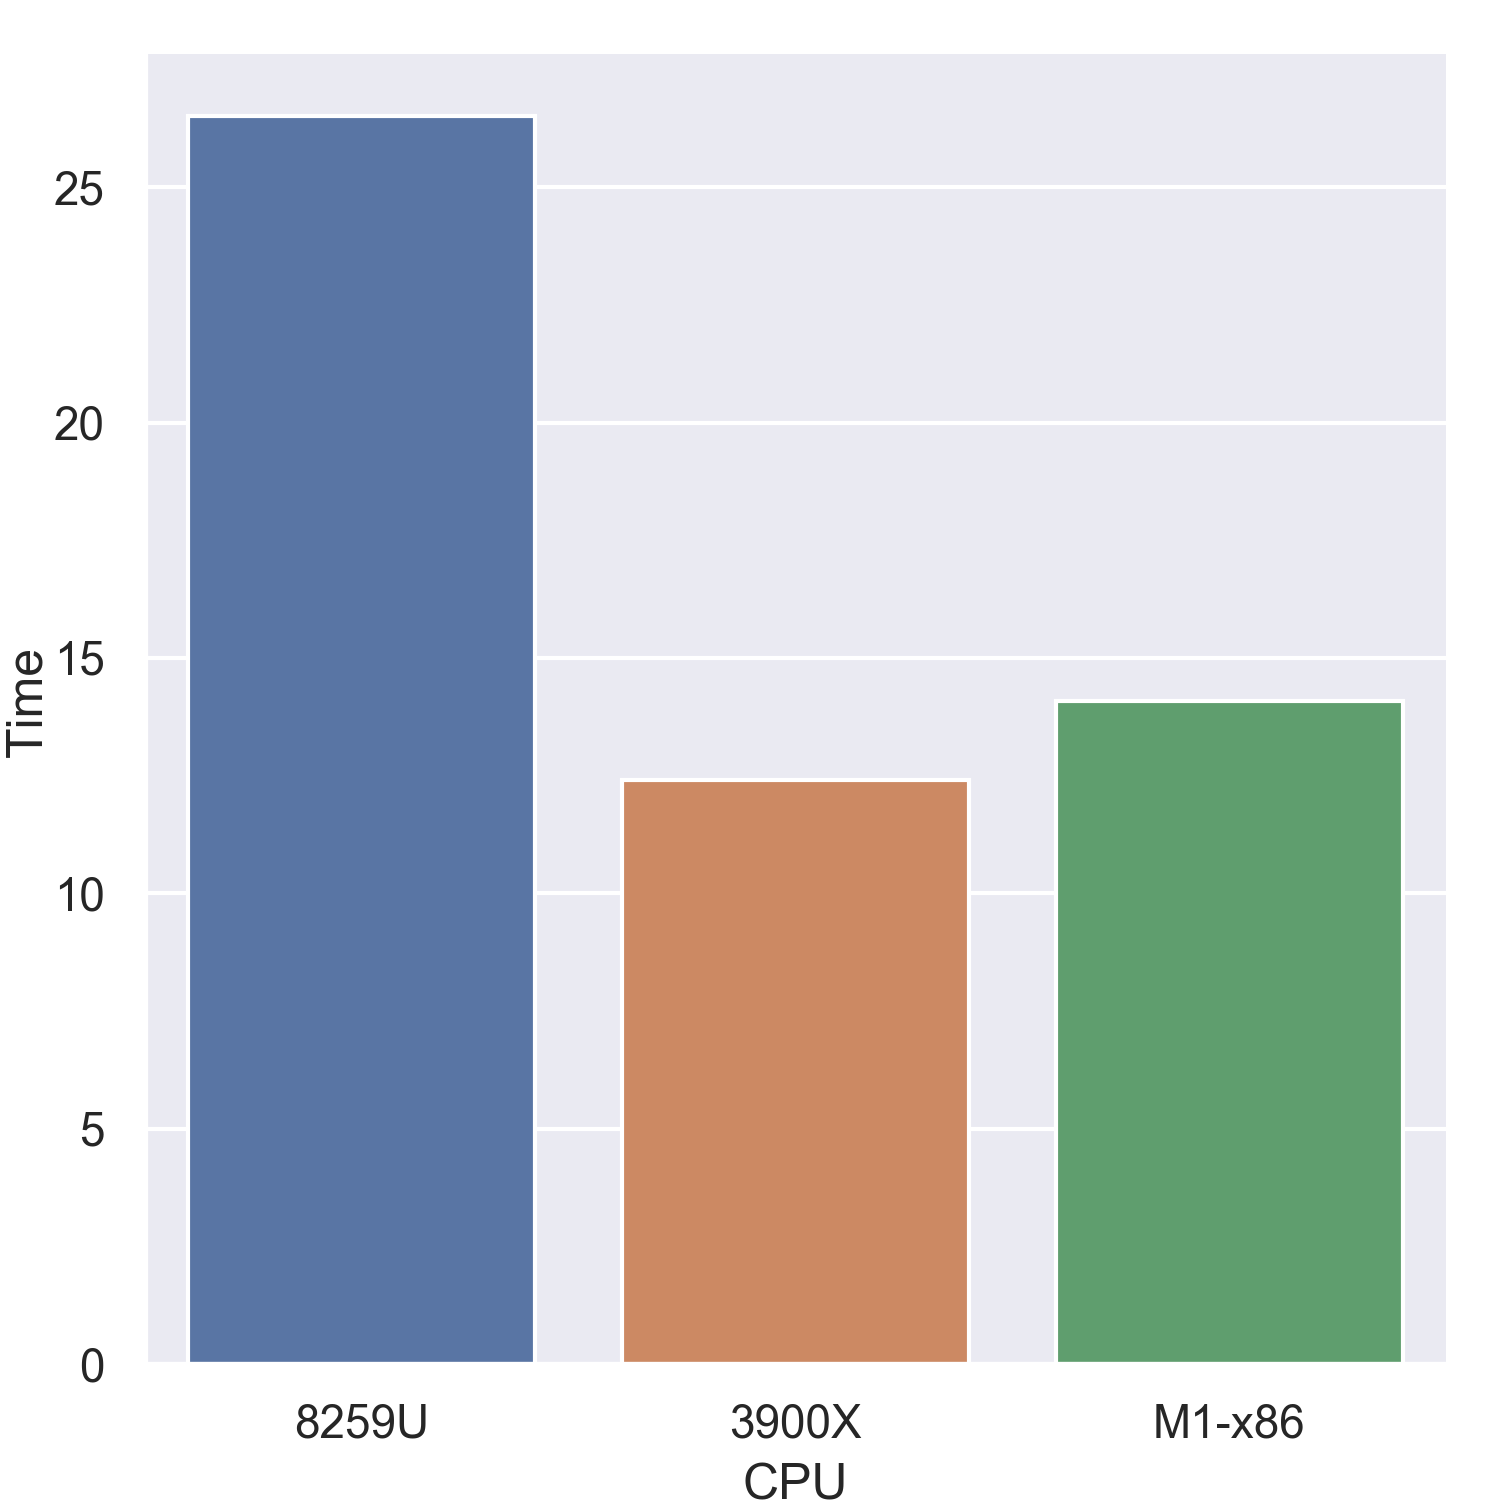
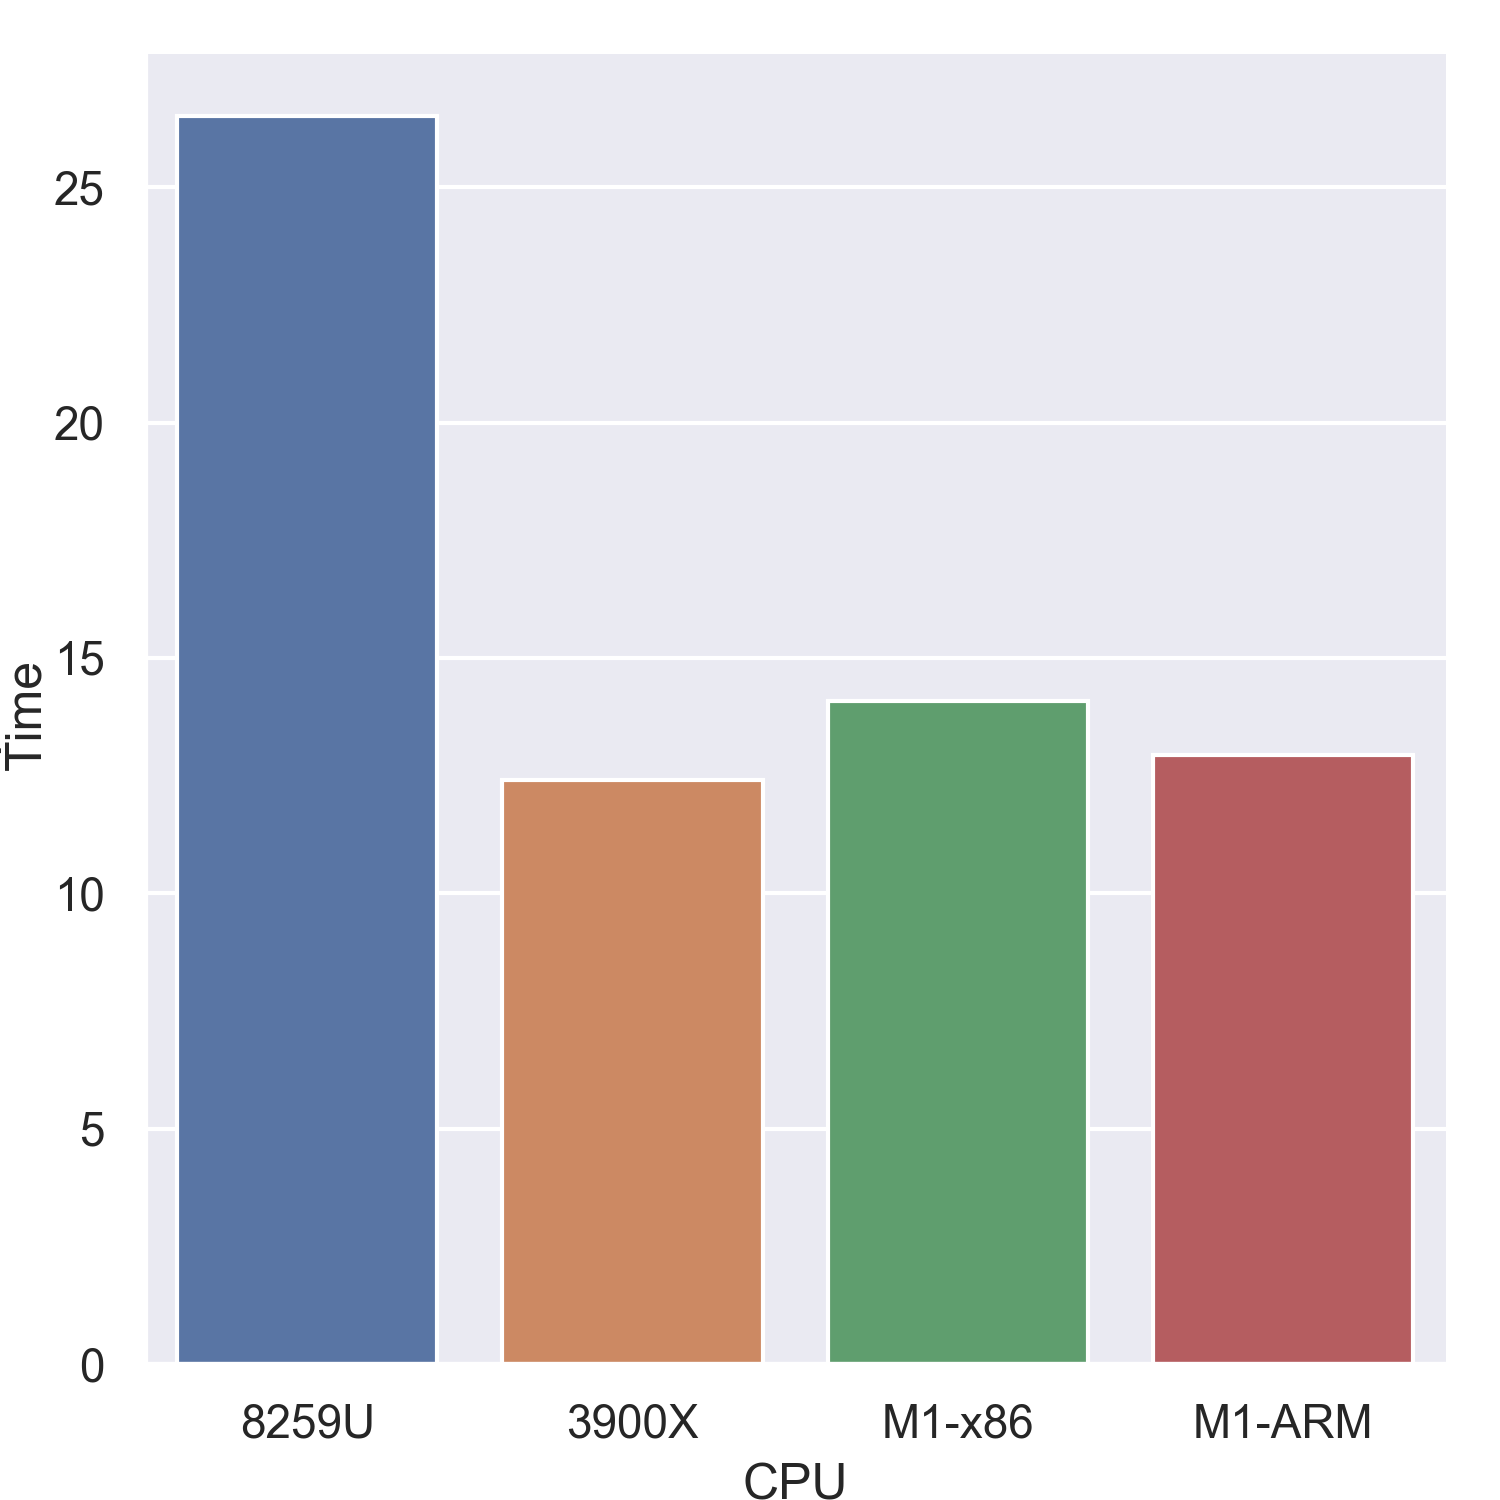
Native numpy

diff --git a/nibabel_graph.py b/nibabel_graph.py
@@ -11,8 +11,8 @@ import matplotlib.pyplot as plt
 #MacBook i5-8259U
 #Ubuntu i7-8700K
 #Ubuntu 3900X
-df = pd.DataFrame({'CPU': ['8259U','3900X','M1-x86'],
-					'Time': [26.5, 12.418, 14.08]})
+df = pd.DataFrame({'CPU': ['8259U','3900X','M1-x86', 'M1-ARM'],
+					'Time': [26.5, 12.418, 14.08, 12.934]})
 sns.set()
 ax = sns.catplot(x="CPU", y="Time", kind="bar", data=df)
 plt.savefig('nibabel.png', dpi=300)

diff --git a/README.md b/README.md
@@ -39,10 +39,10 @@ Initial reviews have suggested [Apple's M1 CPU has outstanding performance](http
 
 Four computers were tested:
 
- - MacBook Pro (2018) with Intel [i5-8259u](https://ark.intel.com/content/www/us/en/ark/products/135935/intel-core-i5-8259u-processor-6m-cache-up-to-3-80-ghz.html) (28w) four-core, eight-thread, integrated GPU.
- - Ubuntu 18.04 Intel [i7-8700k](https://ark.intel.com/content/www/us/en/ark/products/126684/intel-core-i7-8700k-processor-12m-cache-up-to-4-70-ghz.html) (95w) six-core, twelve-thread with NVidia GTX [1080 Ti](https://www.geforce.com/hardware/desktop-gpus/geforce-gtx-1080-ti/specifications) (250w) GPU.
- - Ubuntu 20.04 AMD [Ryzen 9 3900X](https://www.amd.com/en/products/cpu/amd-ryzen-9-3900x) (105w) twelve-core, twenty-four-thread  with NVidia GTX [1080 Ti](https://www.geforce.com/hardware/desktop-gpus/geforce-gtx-1080-ti/specifications) (250w) GPU. Tests were run on a RAM disk to maximize memory performance.
- - MacBook Air (2020) with Apple Silicon [M1](https://en.wikipedia.org/wiki/Apple_M1) (~15w) with four fast cores plus four efficiency cores and integrated GPU (8 Gb RAM, 256 Gb SSD, 7 GPUs). Note this configuration does not have active cooling, so performance is thermally constrained (for example, the [Mac mini M1](https://appleinsider.com/articles/20/11/24/apple-silicon-m1-mac-mini-review---speed-today-and-a-promise-of-more-later) is faster for sustained workloads).
+ - MacBook Pro (2018) with Intel [i5-8259u](https://ark.intel.com/content/www/us/en/ark/products/135935/intel-core-i5-8259u-processor-6m-cache-up-to-3-80-ghz.html) (28w) four-core, eight-thread, maximum bandwidth 37.5 GB/s, integrated GPU.
+ - Ubuntu 18.04 Intel [i7-8700k](https://ark.intel.com/content/www/us/en/ark/products/126684/intel-core-i7-8700k-processor-12m-cache-up-to-4-70-ghz.html) (95w) six-core, twelve-thread, maximum bandwidth 41.6 GB/s, with NVidia GTX [1080 Ti](https://www.geforce.com/hardware/desktop-gpus/geforce-gtx-1080-ti/specifications) (250w) GPU.
+ - Ubuntu 20.04 AMD [Ryzen 9 3900X](https://www.amd.com/en/products/cpu/amd-ryzen-9-3900x) (105w) twelve-core, twenty-four-thread, maximum bandwidth 47.68 GB/s,  with NVidia GTX [1080 Ti](https://www.geforce.com/hardware/desktop-gpus/geforce-gtx-1080-ti/specifications) (250w) GPU. Tests were run on a RAM disk to maximize memory performance.
+ - MacBook Air (2020) with Apple Silicon [M1](https://en.wikipedia.org/wiki/Apple_M1) (~15w) with four fast cores plus four efficiency cores, maximum bandwidth 68.25GB/s, and integrated GPU (8 Gb RAM, 256 Gb SSD, 7 GPUs). Note this configuration does not have active cooling, so performance is thermally constrained (for example, the [Mac mini M1](https://appleinsider.com/articles/20/11/24/apple-silicon-m1-mac-mini-review---speed-today-and-a-promise-of-more-later) is faster for sustained workloads).
 
 ## AFNI
 
@@ -92,7 +92,9 @@ The second test examines the GPU compute performance, looking at generation of t
 
 [NiBabel](https://nipy.org/nibabel/) is a collection of neuroimaging related Python scripts and utilities. It provides [benchmarks](https://nipy.org/nibabel/reference/nibabel.benchmarks.html) for performance and regression testing. While both Python 2.7 and 3 are provided with M1 computers, core Python libraries like numpy and scipy are not yet available as natively compiled code. For these tests, [miniconda](https://docs.conda.io/en/latest/miniconda.html) was installed, and the miniconda `pip` program was used to install x86-64 libraries (numpy, nibabel, pandas, seaborn). Rosetta2 seamlessly translated the x86-64 code the first time the libraries were launched. While native performance will surely be better, here we test the available translations.
 
-The graph shows the geometric mean for the benchmarks with lower values indicating faster performance.
+An experimental [Python version 3.9.1rc1 that natively supports the M1](https://github.com/conda-forge/miniforge#download) including native numpy (`conda install numpy`) has been released. Note that many Python libraries do not yet support this hardware, so in practice you will have to disable this version for many tasks (`conda deactivate`). This native library performed faster than the translated library in all but one test (the finite_range test is reliably slower).
+
+The graph shows the geometric mean for the benchmarks with lower values indicating faster performance. 
  
 ![nibabel](nibabel.png)
 

diff --git a/fortran/README.md b/fortran/README.md
@@ -4,7 +4,7 @@ Fortran plays a pivotal role in science. Open source [scientific tools](https://
 
 Unfortunately, the open source Fortran compilers do not yet support the ARM-based architecture used by Apple's M1 CPUs. Fortunately, Iain Sandoe has been working on porting both gcc and gFortran to this architecture. François-Xavier Coudert has created [an experimental release for the M1](https://github.com/fxcoudert/gfortran-for-macOS/releases). Here we assess the performance of this nascent tool.
 
-Here we test a [couple of popular benchmarks](https://benchmarksgame-team.pages.debian.net/benchmarksgame/fastest/fortran.html). These old benchmarks execute very rapidly, and are probably not a good measure of compute performance. I also include [a simple benchmark I wrote (f400) simulating neuroimaging data](https://github.com/fxcoudert/gfortran-for-macOS/issues/13) (which is probably limited more by memory bandwidth than computation). Due to these factors, I would take these results with a grain of salt. However, the fact that each of these runs to completion suggests that scientific tools which rely on Fortran may soon be available on this promising architecture.
+Here we test a [couple of popular benchmarks](https://benchmarksgame-team.pages.debian.net/benchmarksgame/fastest/fortran.html). These old benchmarks execute very rapidly, and are probably not a good measure of compute performance. I also include [a simple benchmark I wrote (f400) simulating neuroimaging data](https://github.com/fxcoudert/gfortran-for-macOS/issues/13) (which is probably limited more by memory bandwidth than computation). Finally, I include a [2D filtering](https://github.com/sebastianbeyer/fasticonv) benchmark. For this benchmark, I take report the total runtime, which means the results are dominated by the slow `naive` versus the `fast` implementation. It is worth noting that the `naive` implementation performed pporly on the M1 relative to the Intel and AMD CPUs, but the reverse was true for the `fast` method. Therefore, the total time reported suggests the M1 does poorly in this test, but the reverse would be true if the geometric means of the sub-tests was used. Due to these factors, I would take these results with a grain of salt. However, the fact that each of these runs to completion suggests that scientific tools which rely on Fortran may soon be available on this promising architecture.
 
 
 ## Installing dependencies
@@ -46,8 +46,11 @@ gfortran -O3 -fopenmp -o fspectral-norm spectral-norm.f90; time ./fspectral-norm
 gfortran -O3 -o fpidigits pidigits.f90 -lgmp; time ./fpidigits 10000
 gfortran -O3 -o freverse reverse.f90; time ./freverse 0 < revcomp-input100000000.txt
 gfortran -O3 -fopenmp -o fspectral-norm spectral-norm.f90; time ./fspectral-norm 5500
-gfortran -O3 -o f400 fortran400.f95; ./f400
-gfortran -O3 -o f400 fortran400.f95; ./f400
+gfortran -O3 -o f400 fortran400.f95; time ./f400
+gfortran -O3 -o f400 fortran400.f95; time ./f400
+gfortran -O3 -c -o fortfilt.o fortfilt.f90
+gfortran -O3 -o performancetest fortfilt.o performancetest.f90
+time ./benchmark.sh
 ```
 
 ## Testing
@@ -66,3 +69,4 @@ All of these times are very brief. Since macOS applications often [phone home](h
 | spectral-norm |  0.638        |  0.165        |  0.454        |
 | f400_fp32     |296.547        | 97.050        | 42.773        |
 | f400_fp64     |334.015        |276.307        | 85.466        |
+| [fasticonv](https://github.com/sebastianbeyer/fasticonv)     |26.746        | 27.429        | 60.570        |
